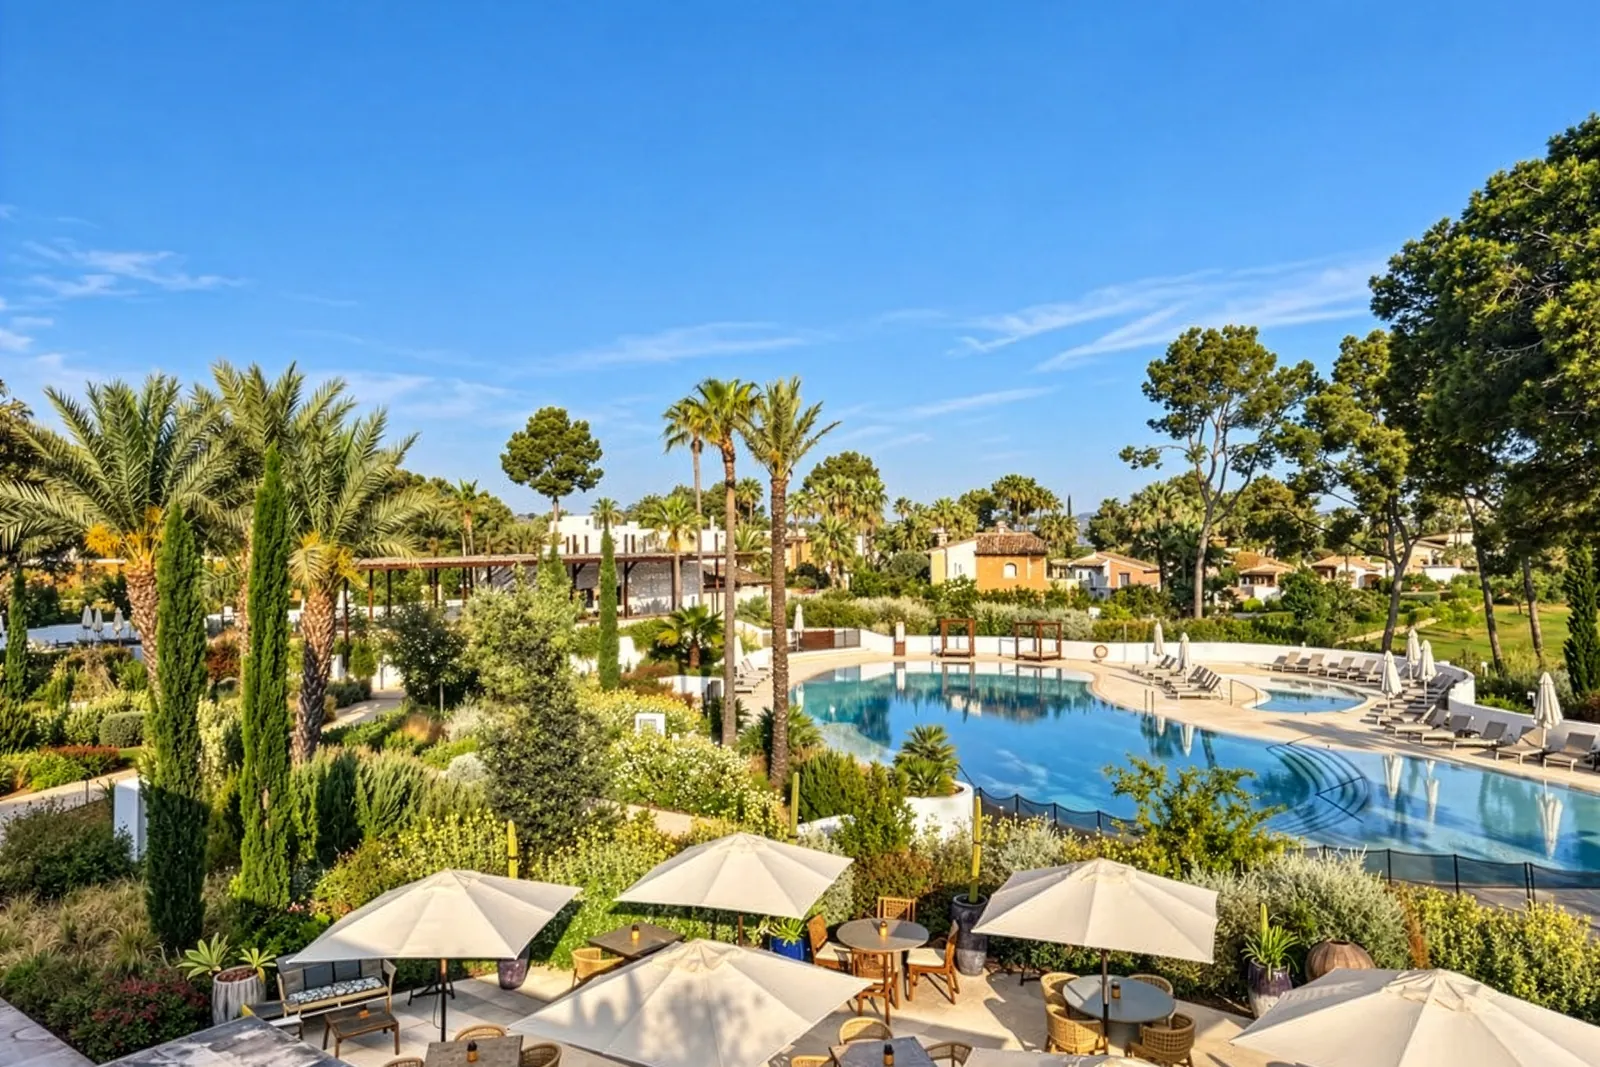
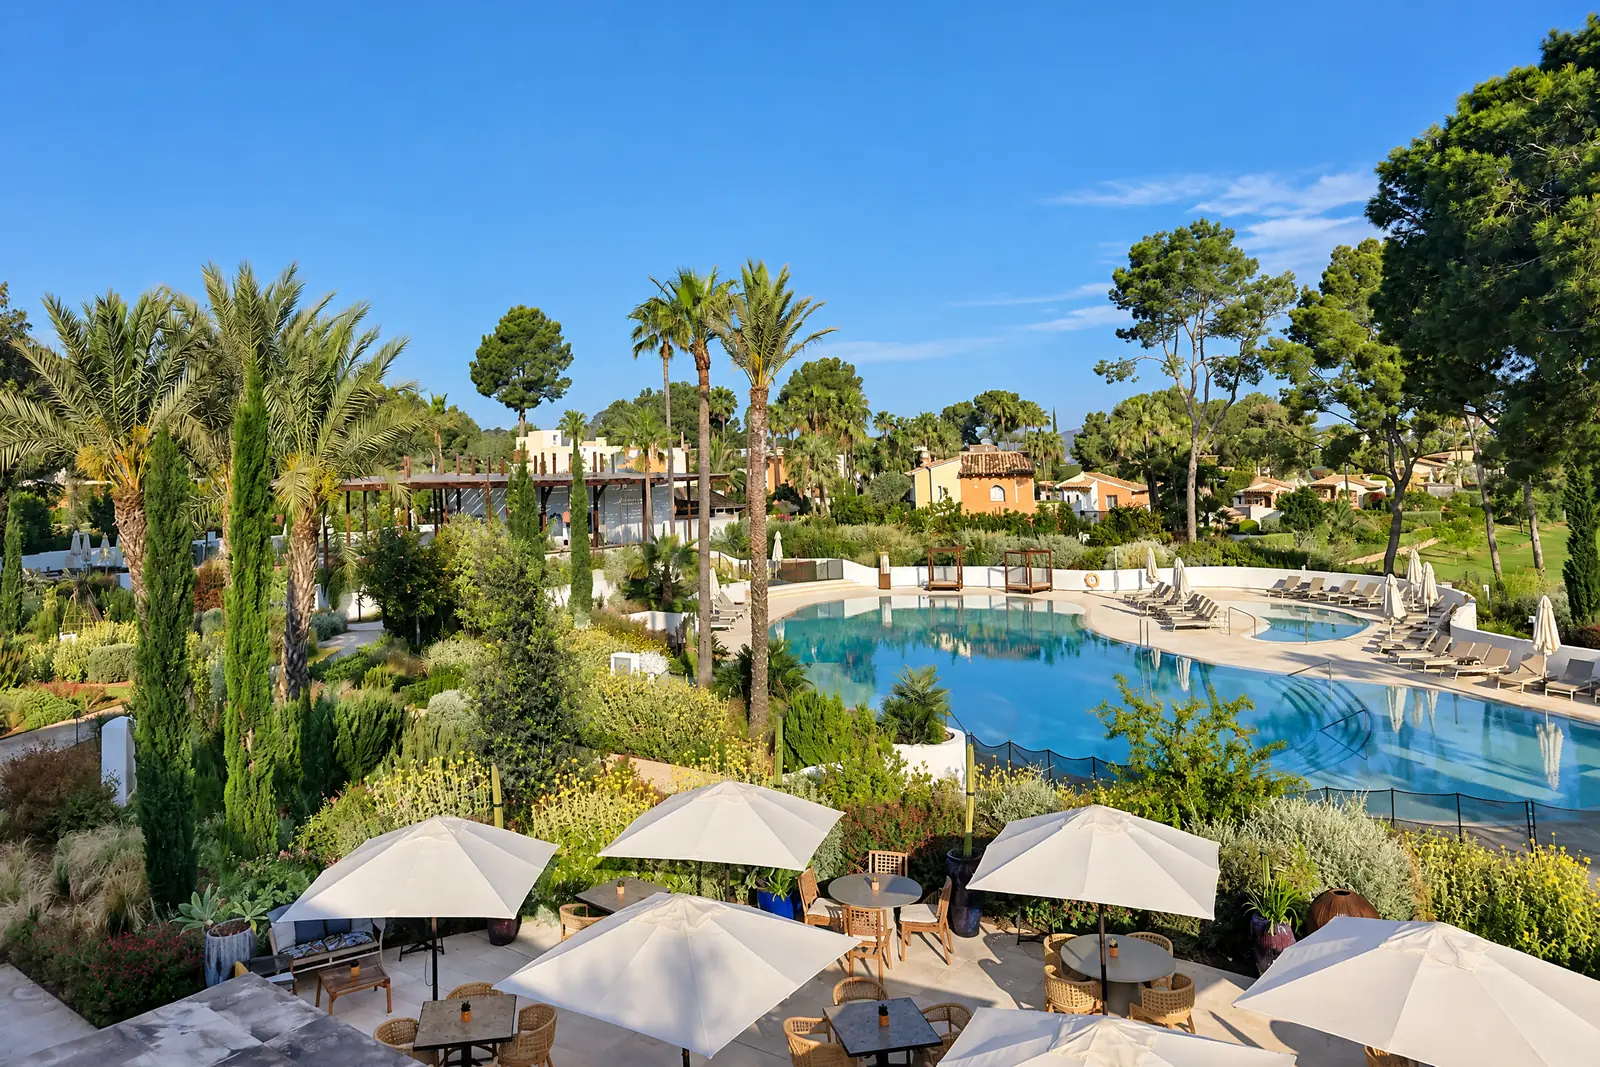
Venue visits hero: edited Kimpton Aysla photo, cache bust

diff --git a/venue-visits/index.html b/venue-visits/index.html
@@ -425,8 +425,8 @@ html{scroll-padding-top:142px}
 
 <section class="page-hero page-hero--img">
   <picture>
-    <source type="image/webp" srcset="../assets/img/venue-visits/kimpton-aysla-mallorca/1-hero.webp?v=202609231345">
-    <img class="ph-bg" src="../assets/img/venue-visits/kimpton-aysla-mallorca/1-hero.jpg?v=202609231345" width="1600" height="1067" fetchpriority="high" decoding="async" alt="" aria-hidden="true" onerror="this.style.display='none'">
+    <source type="image/webp" srcset="../assets/img/venue-visits/kimpton-aysla-mallorca/1-hero.webp?v=202609241145">
+    <img class="ph-bg" src="../assets/img/venue-visits/kimpton-aysla-mallorca/1-hero.jpg?v=202609241145" width="1600" height="1067" fetchpriority="high" decoding="async" alt="" aria-hidden="true" onerror="this.style.display='none'">
   </picture>
   <div class="wrap">
     <nav class="crumbs" aria-label="Breadcrumb"><a href="../index.html">Home</a><span>/</span><b style="color:inherit;font-weight:500">Venue visits</b></nav>
